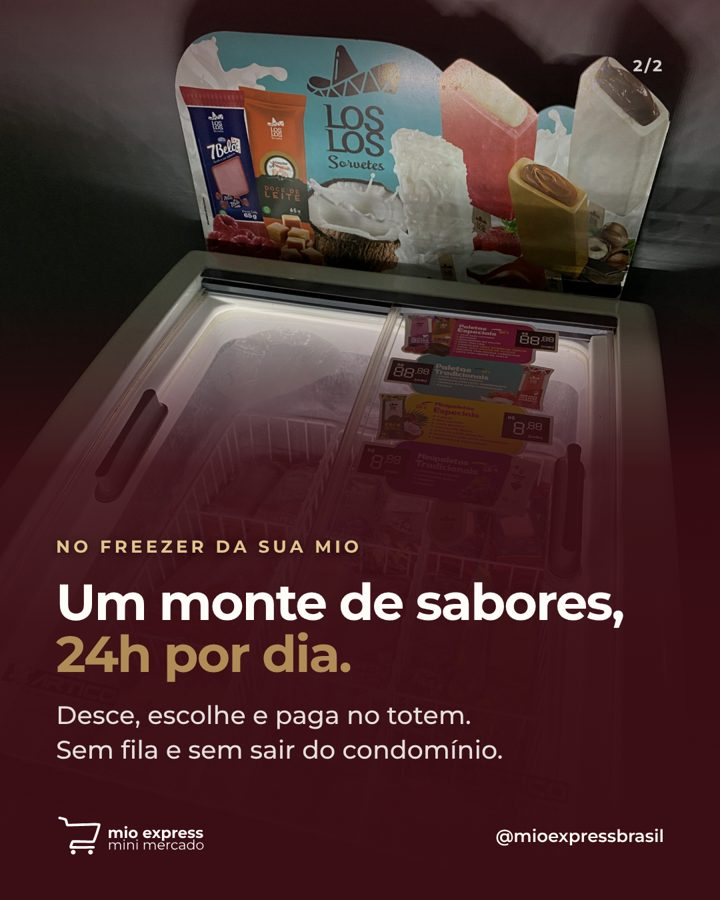
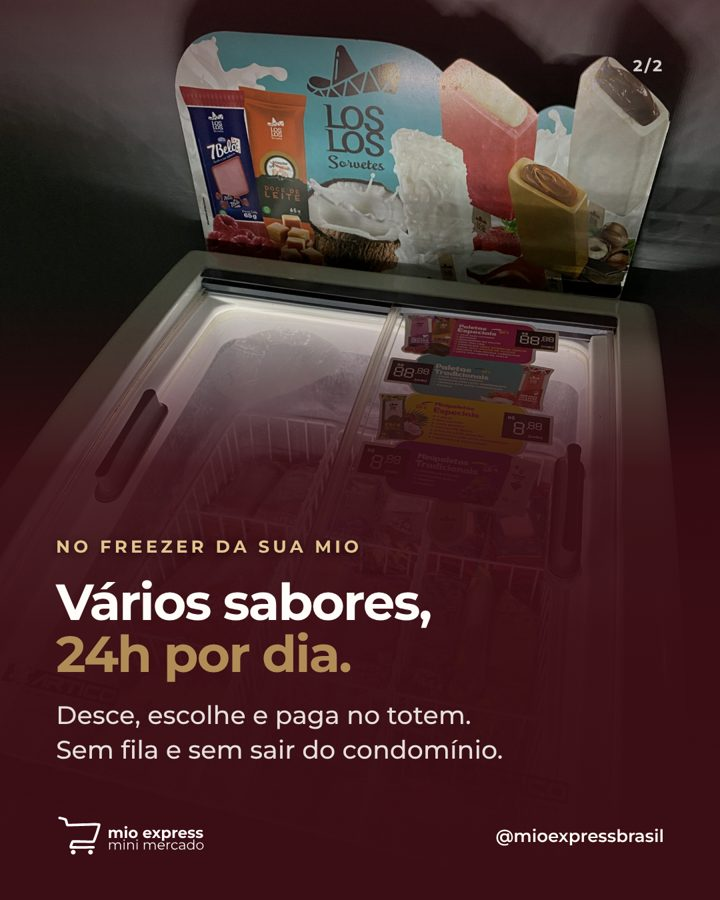
Picolé: vários sabores
Claude-Session: https://claude.ai/code/session_01CwP1brNtxaKT1mUQXiiAjA

Changed region(s): [[0.0611, 0.6222, 0.8861, 0.7156]]

diff --git a/marketing/posts/05-picole-los-los/.slide.html b/marketing/posts/05-picole-los-los/.slide.html
@@ -42,5 +42,5 @@ p.lead { font-size: 38px; line-height: 1.35; font-weight: 500; opacity: .88; }
 .ft.baixo::after { background: linear-gradient(180deg, rgba(59,13,20,.5) 0%, rgba(59,13,20,0) 18%, rgba(59,13,20,0) 32%, rgba(59,13,20,.88) 52%, rgba(59,13,20,.97) 70%, #3b0d14 100%); }
 </style><body><div class="s" style="color:#fffdf9"><div class="ft baixo" style="background-image:url(file:///home/user/mioexpress-site/assets/source/fotos/loslos-freezer.jpg);background-position:50% 25%"></div><div class="tag">2/2</div>
         <div class="z mt-a" style="margin-bottom:110px"><p class="eyebrow" style="color:#e2c48f">No freezer da sua Mio</p>
-        <h2 class="mt1">Um monte de sabores,<br><em>24h por dia.</em></h2>
+        <h2 class="mt1">Vários sabores,<br><em>24h por dia.</em></h2>
         <p class="lead mt1">Desce, escolhe e paga no totem.<br>Sem fila e sem sair do condomínio.</p></div><div class="rodape"><img src="file:///home/user/mioexpress-site/public/brand/logo-white.svg"><span>@mioexpressbrasil</span></div></div></body>
